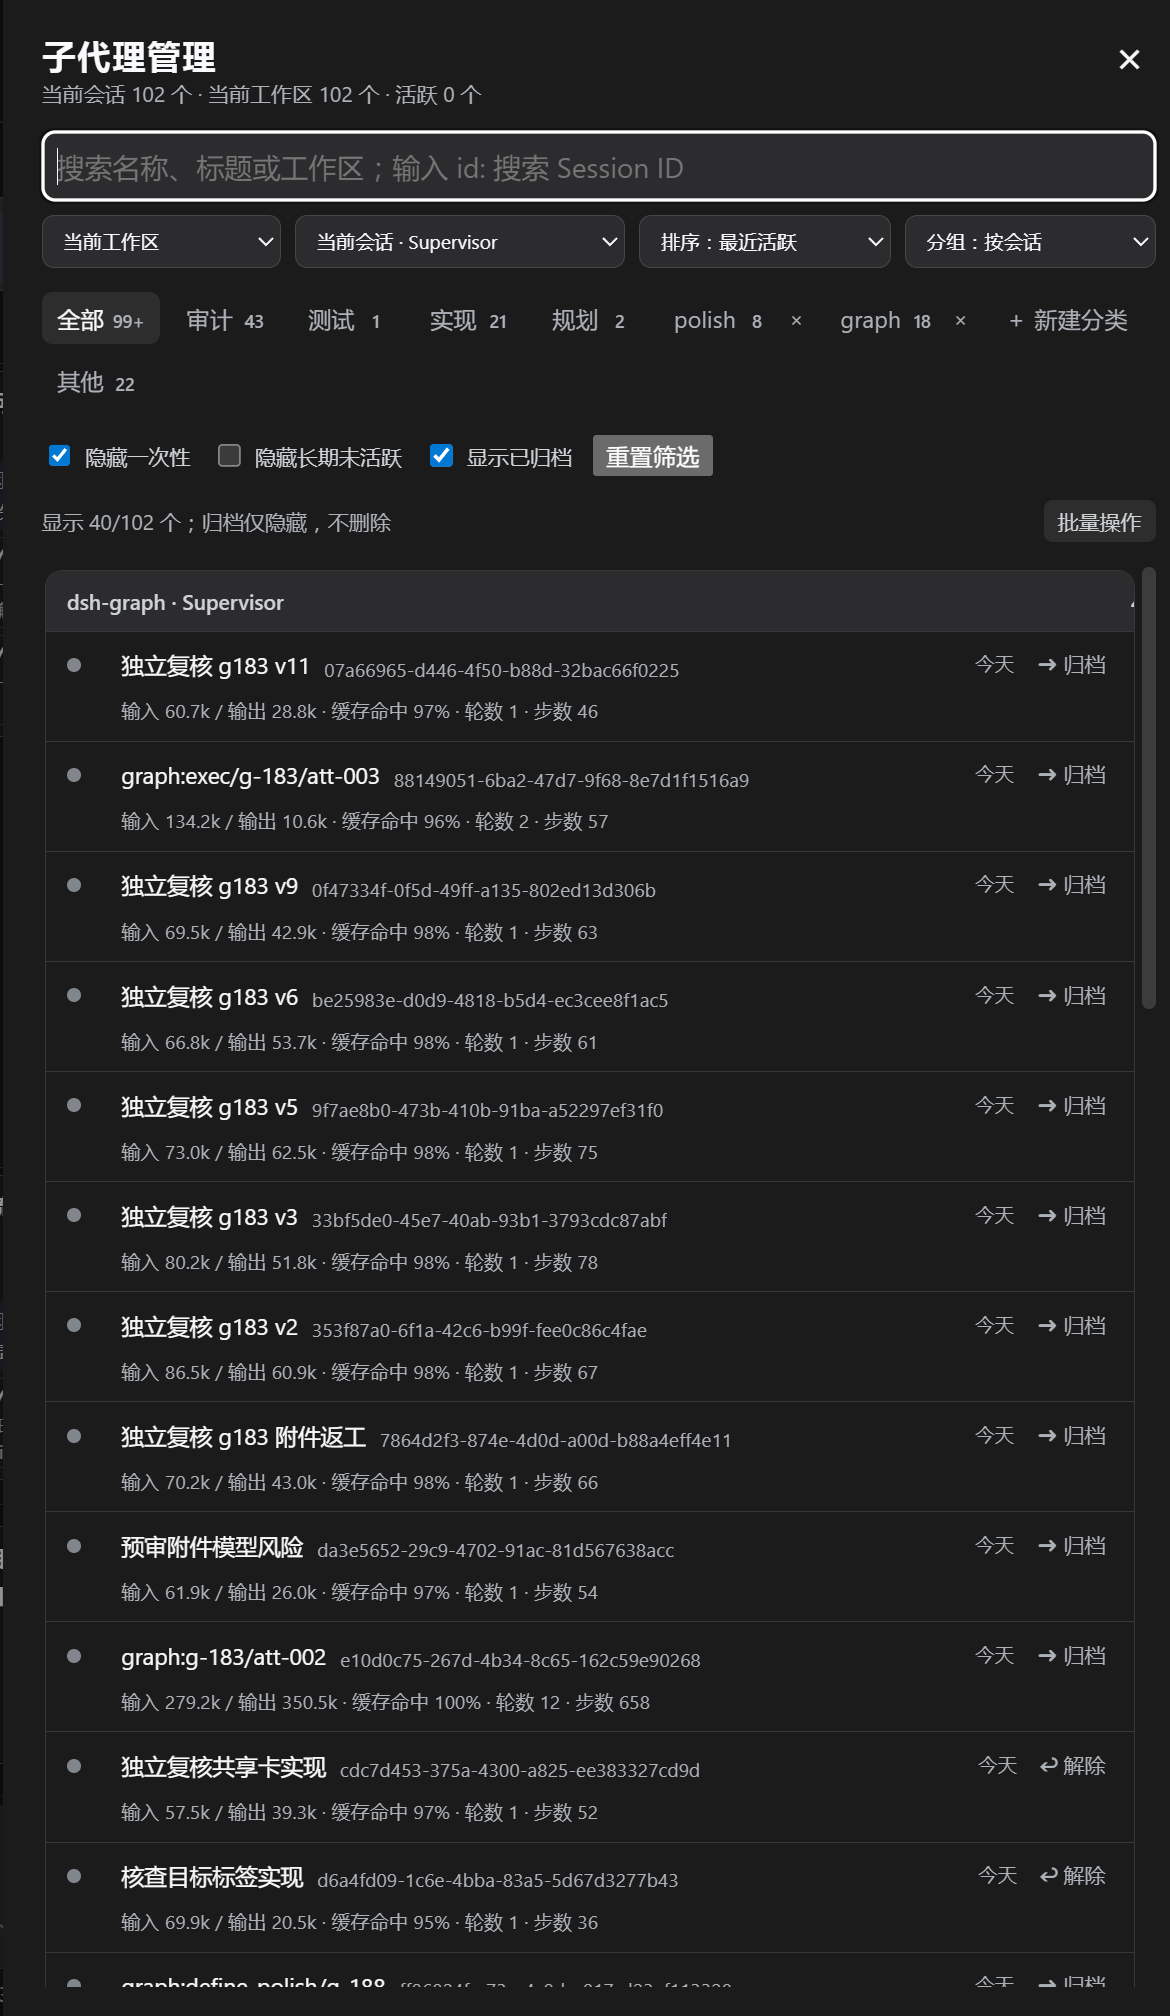
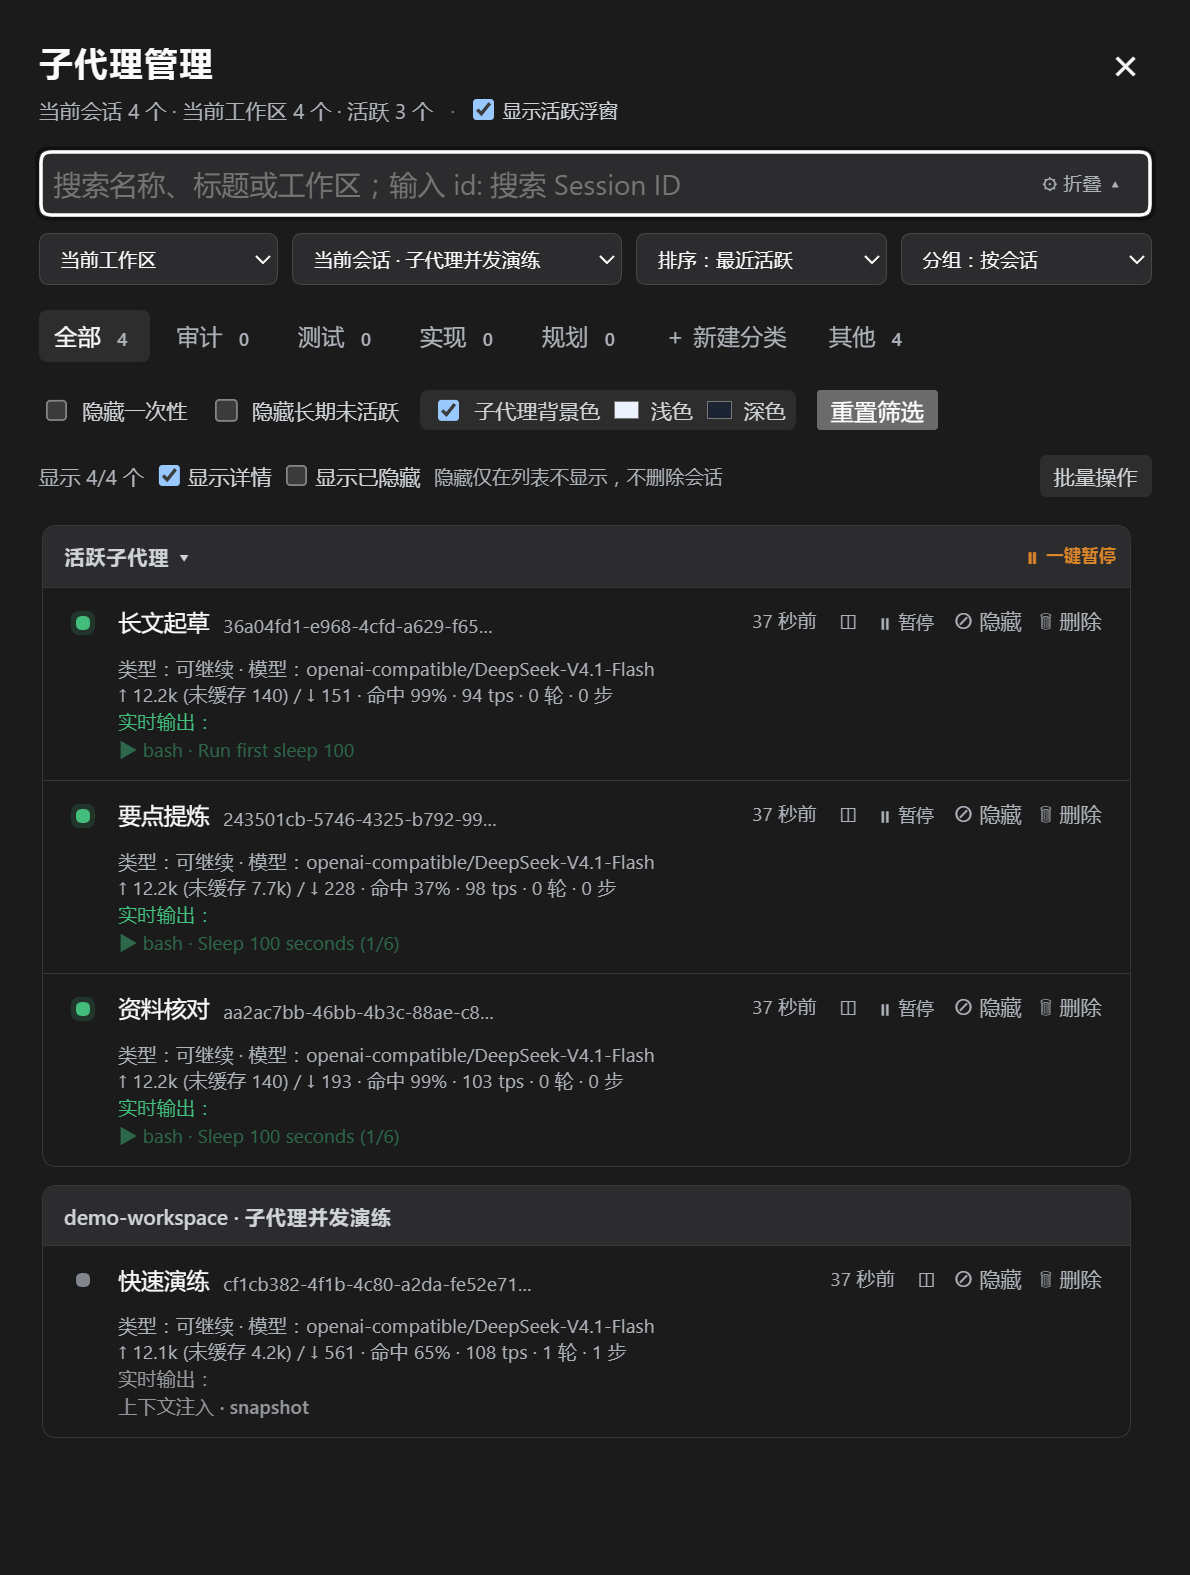
docs: refresh dshmarket screenshots for 1.7.0-dev (zh + en, dark)
Shoot the manager panel and the active-subagents float on a real dsh
0.1.6-alpha.2 instance in an isolated DSH_HOME, with three background
subagents still running and one already finished, so every row shows its
real type, model and official usage figures plus live output.

- screenshot-1.png / screenshot-2.png  -> Chinese UI pair
- screenshot-1.en.png / screenshot-2.en.png -> English UI pair (host
  locale actually switched to en, not a caption change)
- screenshots.json now lists all four paths (dshmarket cap is 6)
- both READMEs point at their own language pair with a synced guide

diff --git a/README.md b/README.md
@@ -23,18 +23,20 @@ A Web client plugin that adds a **子代理管理** button to the conversation-h
 
 ## Screenshot guide
 
-The screenshots demonstrate the compact manager and active-agent floating panel:
+Both screenshots were taken on the `1.7.0-dev` line (commit `79d9d0f`) against a real dsh **0.1.6-alpha.2** instance in its dark theme. The session had four background subagents at once — three still running and one already finished — so every row could be shown with its real type, model and usage figures. The pair below is the English UI; the Chinese UI pair is in [`README.zh.md`](README.zh.md).
 
-![Subagent manager panel](docs/images/screenshot-1.png)
+![Subagent manager panel (English UI)](docs/images/screenshot-1.en.png)
 
-![Active subagent floating panel](docs/images/screenshot-2.png)
+![Active subagent floating panel (English UI)](docs/images/screenshot-2.en.png)
 
-1. **Header** — title, current-session/workspace counts, and close action.
+1. **Header** — panel title, `Current session n · Current workspace n · Active n`, the show-active-float toggle, and the close action.
 2. **Search and scope row** — ordinary name/title/workspace search, with `id: xxx` reserved for Session ID search; workspace, session, sorting, and grouping selectors stay on one compact row.
-3. **Classification row** — built-in and custom categories, with custom-category deletion inside the same tab frame.
-4. **Filter row** — hide one-shot, hide stale children, show archived, and reset filters.
-5. **Results** — collapsible active group, workspace/session group headers, Session ID beside each name, relative activity time, and archive status.
-6. **Live activity** — when available, the last two output lines or the latest tool/context status appear at the bottom of the card; the final snapshot remains gray after completion.
+3. **Classification row** — built-in and custom categories with live counts, custom-category creation and deletion inside the same tab frame.
+4. **Filter row** — hide one-shot, hide long-inactive, subagent background colour (light/dark), and reset filters.
+5. **Summary row** — `Showing n/m`, show details, show hidden, and the batch-mode entry.
+6. **Active subagents group** — pinned to the top and collapsible, with `Pause all`; each row carries the activity dot, the name, the Session ID, the relative activity time, and the `◫` open-in-the-sidebar, `⏸ Pause`, `⊘ Hide` and `🗑 Delete` actions.
+7. **Detail block** — `Type: … · Model: …` straight from the host's read-only projections, then the official usage line `↑ billed (miss …) / ↓ output · Hit n% · n tps · n rnds · n stps`; a running child also shows its latest live-output lines, while a finished child keeps its final snapshot.
+8. **Floating panel** — the running children of the current session in a compact always-on-top card, each with its live output, usage line and stop button; it appears whenever at least one child is running and the manager panel is closed.
 
 ## Install in the Web profile
 

diff --git a/README.zh.md b/README.zh.md
@@ -46,13 +46,22 @@
 
 ## 界面截图
 
-### 子代理管理抽屉
+两张截图拍摄于 `1.7.0-dev` 分支（commit `79d9d0f`）上真实运行的 dsh **0.1.6-alpha.2** 实例，深色主题。拍摄时同一个会话里并存 4 个后台子代理——3 个仍在运行、1 个已完成，因此每行都能展示真实的类型、模型与用量数字。这里是中文界面；英文界面两张见 [`README.md`](README.md)。
 
-![子代理管理抽屉](docs/images/screenshot-1.png)
+![子代理管理抽屉（中文界面）](docs/images/screenshot-1.png)
 
-### 活跃子代理浮窗
+![活跃子代理浮窗（中文界面）](docs/images/screenshot-2.png)
 
-![活跃子代理浮窗](docs/images/screenshot-2.png)
+管理面板自上而下依次是：
+
+1. **标题栏** —— 面板标题、`当前会话 n 个 · 当前工作区 n 个 · 活跃 n 个`、活跃浮窗开关与关闭按钮。
+2. **搜索与范围行** —— 名称/标题/工作区搜索，`id: xxx` 专用于 Session ID 搜索；工作区、会话、排序、分组四个选择器同处一行。
+3. **分类行** —— 内置分类与自定义分类（带实时数量），自定义分类的新建与删除都在同一标签框内。
+4. **筛选行** —— 隐藏一次性、隐藏长期未活跃、子代理背景色（浅色/深色）与重置筛选。
+5. **汇总行** —— `显示 n/m 个`、显示详情、显示已隐藏，以及批量操作入口。
+6. **活跃子代理分组** —— 置顶且可折叠，带「一键暂停」；每行包含活跃圆点、名称、Session ID、相对活动时间，以及 `◫` 在侧边栏打开、`⏸ 暂停`、`⊘ 隐藏`、`🗑 删除`。
+7. **详情区** —— 直接来自宿主只读投影的 `类型：… · 模型：…`，以及官方口径的用量行 `↑ 计费输入 (未缓存…) / ↓ 输出 · 命中 n% · n tps · n 轮 · n 步`；运行中的子代理还会显示最新的实时输出，已完成的保留最终快照。
+8. **活跃浮窗** —— 当前会话里运行中的子代理以紧凑浮窗常驻，每行带实时输出、用量行与暂停按钮；面板关闭且存在运行中子代理时自动出现。
 
 ### 分类标签
 
